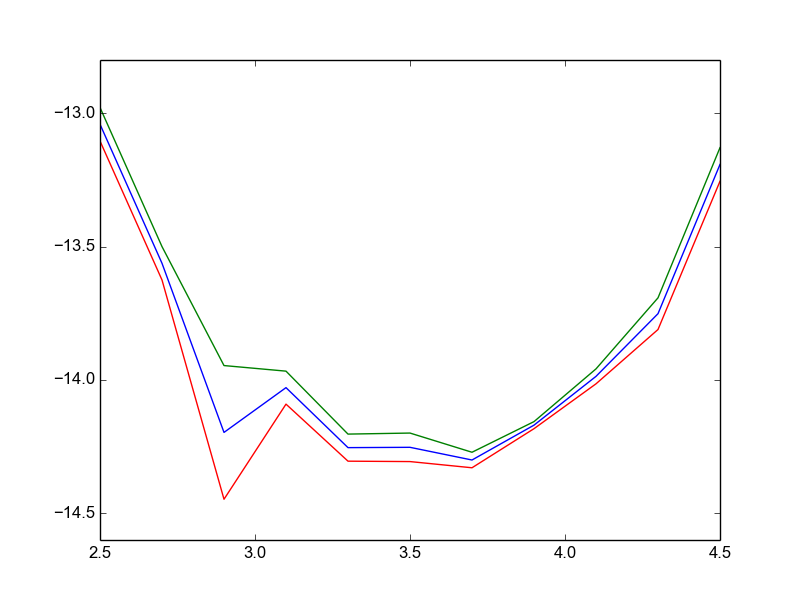
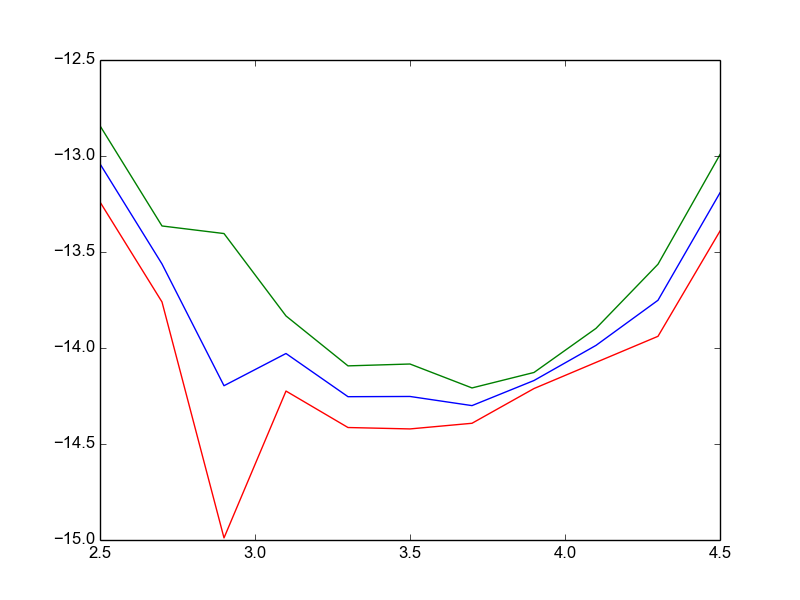
Made it easier to extrac information. Also changed some plotting.

diff --git a/Project2/src/python/plot/testplot/plot.py b/Project2/src/python/plot/testplot/plot.py
@@ -13,6 +13,7 @@ fileName = "energies_mean.txt"
 fileNameDD = "DD.txt"
 fileNameCC = "CC.txt"
 fileNameDC = "DC.txt"
+fileNameEPot = "energies_mean_potential.txt"
 
 # Load data.
 os.chdir(curDir)
@@ -22,40 +23,39 @@ meanFile    = open(fileName, 'r')
 fileDD      = open(fileNameDD,'r')
 fileCC      = open(fileNameCC,'r')
 fileDC      = open(fileNameDC,'r')
+fileEPot      = open(fileNameEPot,'r')
 
 alphaArray  = np.loadtxt(alphaFile)
 meanArray   = np.loadtxt(meanFile)
 DD          = np.loadtxt(fileDD)
 CC          = np.loadtxt(fileCC)
 DC          = np.loadtxt(fileDC)
+EPot          = np.loadtxt(fileEPot)
 
 alphaFile.close()
 meanFile.close()
 fileDD.close();
 fileCC.close();
 fileDC.close();
+fileEPot.close();
 
+mean = np.mean(meanArray,axis=1)
+meanVar = np.std(meanArray,axis=1)
+meanDD = np.mean(DD,axis=1)
+meanCC = np.mean(CC,axis=1)
+meanDC = np.mean(DC,axis=1)
+meanEPot = np.mean(EPot,axis=1)
 
-if len(meanArray.shape) == 1:
-    plt.plot(alphaArray, meanArray)
-    plt.savefig('alpha_plot.png')
-    plt.show()
-else :
-    mean = np.mean(meanArray,axis=1)
-    meanVar = np.std(meanArray,axis=1)
-    meanDD = np.mean(DD,axis=1)
-    meanCC = np.mean(CC,axis=1)
-    meanDC = np.mean(DC,axis=1)
+plt.plot(alphaArray, meanEPot);
+plt.plot(alphaArray, meanDD);
+plt.plot(alphaArray, meanCC);
+plt.plot(alphaArray, meanDC);
+plt.savefig('special.png')
+plt.show()
+plt.figure()
 
-    plt.plot(alphaArray, meanDD);
-    plt.plot(alphaArray, meanCC);
-    plt.plot(alphaArray, meanDC);
-    plt.savefig('special.png')
-    plt.show()
-    plt.figure()
-
-    plt.plot(alphaArray, mean)
-    plt.plot(alphaArray, mean+meanVar)
-    plt.plot(alphaArray, mean-meanVar)
-    plt.savefig('alpha_plot.png')
-    plt.show()
+plt.plot(alphaArray, mean)
+plt.plot(alphaArray, mean+meanVar)
+plt.plot(alphaArray, mean-meanVar)
+plt.savefig('alpha_plot.png')
+plt.show()

diff --git a/Project2/src/cpp/plot/testplot/main.cpp b/Project2/src/cpp/plot/testplot/main.cpp
@@ -43,10 +43,12 @@ int main(int argc, const char *argv[])
     Vector vDD = Vector(nCycles);
     Vector vCC = Vector(nCycles);
     Vector vDC = Vector(nCycles);
+    Vector vEPot = Vector(nCycles);
     double* energyArray = vEnergyArray.getArrayPointer();
     double* DD = vDD.getArrayPointer();
     double* CC = vCC.getArrayPointer();
     double* DC = vDC.getArrayPointer();
+    double* EPot = vEPot.getArrayPointer();
 
 
     // Run simulation.
@@ -60,12 +62,14 @@ int main(int argc, const char *argv[])
             DD[cycle] += solver.DD;
             CC[cycle] += solver.CC;
             DC[cycle] += solver.DC;
+            EPot[cycle] += solver.potentialEnergy;
         }
     }
     vDD /= nParticles;
     vCC /= nParticles;
     vDC /= nParticles;
     vEnergyArray /= nParticles;
+    vEPot /= nParticles;
     auto end = chrono::high_resolution_clock::now();
     chrono::duration<double> diff = end-start;
     cout << "Time = " << microfortnights(diff).count() << " micro fortnights." << endl;
@@ -75,11 +79,13 @@ int main(int argc, const char *argv[])
     Vector meanCC = util::getMeanArray(binSize,vCC);
     Vector meanDC = util::getMeanArray(binSize,vDC);
     Vector meanArray = util::getMeanArray(binSize,vEnergyArray);
+    Vector meanEPot = util::getMeanArray(binSize,vEPot);
 
     util::appendToFile(adress,"DD.txt",meanDD);
     util::appendToFile(adress,"CC.txt",meanCC);
     util::appendToFile(adress,"DC.txt",meanDC);
     util::appendToFile(adress,"energies_mean.txt",meanArray);
+    util::appendToFile(adress,"energies_mean_potential.txt",meanEPot);
 
     return 0;
 }

diff --git a/Project2/src/cpp/vmcsolver/VMCSolver.cpp b/Project2/src/cpp/vmcsolver/VMCSolver.cpp
@@ -994,7 +994,7 @@ double VMCSolver::getLocalEnergySlater(double** r, double* rAbs)
     }
 
     // Potential energy.
-    double potentialEnergy = 0;
+    potentialEnergy = 0;
     double rSingleParticle = 0;
     for (int i = 0; i < nParticles; i++)
     {

diff --git a/Project2/src/cpp/vmcsolver/VMCSolver.h b/Project2/src/cpp/vmcsolver/VMCSolver.h
@@ -105,6 +105,7 @@ public:
     double waveFuncValNew;
     double greensFunction;
     double ratio;
+    double potentialEnergy;
     double DD;
     double CC;
     double DC;
